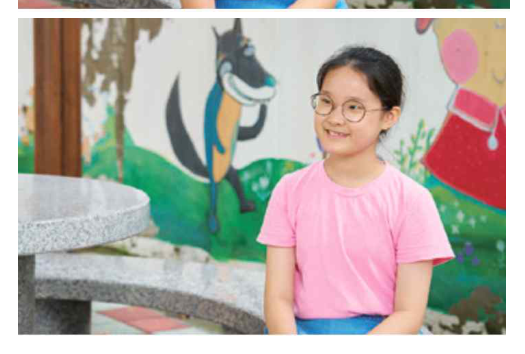
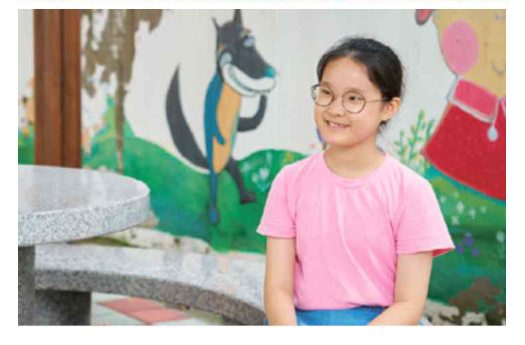
회독본 배포본 갱신

diff --git a/status.html b/status.html
@@ -68,7 +68,7 @@ body{margin:0;background:var(--bg);color:var(--label);}
   <section class="fs-mine" hidden><h2 class="fs-h">이 기기에서 보낸 제보<span class="fs-id" hidden></span></h2><div class="fs-grp"></div></section>
   <div class="fs-seg" hidden><button type="button" data-v="open">진행 중<span></span></button><button type="button" data-v="done">완료<span></span></button></div>
   <div class="fs-grp fs-list">
-    <details class="fs-row" data-k="미술|2026-10-11T16:15"><summary><div class="fs-w"><span class="fs-t">10월 11일 오후 4:15</span><span class="fs-s">미술</span></div><span class="fs-chip fs-review">검토 중</span><svg class="fs-cv" viewBox="0 0 8 14" fill="none" stroke="currentColor" stroke-width="2" stroke-linecap="round" stroke-linejoin="round"><path d="M1 1l6 6-6 6"/></svg></summary><div class="fs-x"><div><p class="fs-g">쪽지시험 &gt; 디자인과 매체 &gt; 사진과 애니메이션 · 사진이 잘려요</p></div></div></details>
+    <details class="fs-row" data-k="미술|2026-10-11T16:15"><summary><div class="fs-w"><span class="fs-t">10월 11일 오후 4:15</span><span class="fs-s">미술 · 10월 11일 반영</span></div><span class="fs-chip fs-fixed">반영</span><svg class="fs-cv" viewBox="0 0 8 14" fill="none" stroke="currentColor" stroke-width="2" stroke-linecap="round" stroke-linejoin="round"><path d="M1 1l6 6-6 6"/></svg></summary><div class="fs-x"><div><p class="fs-g">쪽지시험 &gt; 디자인과 매체 &gt; 사진과 애니메이션 · 사진이 잘려요</p><p class="fs-g fs-why">사진 위쪽에 섞여 있던 다른 사진 조각을 잘라 냄</p></div></div></details>
     <details class="fs-row" data-k="일반|2026-10-10T19:00"><summary><div class="fs-w"><span class="fs-t">10월 10일 오후 7:00</span><span class="fs-s">일반 · 15분 만에 반영</span></div><span class="fs-chip fs-fixed">반영</span><svg class="fs-cv" viewBox="0 0 8 14" fill="none" stroke="currentColor" stroke-width="2" stroke-linecap="round" stroke-linejoin="round"><path d="M1 1l6 6-6 6"/></svg></summary><div class="fs-x"><div><p class="fs-g">쪽지시험 · 틀린 문제 기록 기기 연동 요청</p><p class="fs-g fs-why">쪽지시험 기기 연동 추가</p></div><a class="fs-go" href="sync.html" aria-label="그 기능 보기" title="그 기능 보기"><svg viewBox="0 0 24 24" fill="none" stroke="currentColor" stroke-width="2" stroke-linecap="round" stroke-linejoin="round"><path d="M14 4h6v6M20 4l-9 9M18 14v4.5a1.5 1.5 0 0 1-1.5 1.5h-11A1.5 1.5 0 0 1 4 18.5v-11A1.5 1.5 0 0 1 5.5 6H10"/></svg></a></div></details>
     <details class="fs-row" data-k="체육|2026-10-10T17:25"><summary><div class="fs-w"><span class="fs-t">10월 10일 오후 5:25</span><span class="fs-s">체육 · 16분 만에 반영</span></div><span class="fs-chip fs-fixed">반영</span><svg class="fs-cv" viewBox="0 0 8 14" fill="none" stroke="currentColor" stroke-width="2" stroke-linecap="round" stroke-linejoin="round"><path d="M1 1l6 6-6 6"/></svg></summary><div class="fs-x"><div><p class="fs-g">학습과제 &gt; 학습과제의 전달 &gt; 설명 · 개별 대상 하위(이해력·수행 점검)가 한 줄로 접혀 보이던 것</p><p class="fs-g fs-why">개별 대상 아래 이해력 점검·수행 점검이 펼쳐 보이도록 고침</p></div><a class="fs-go" href="7.%EC%B2%B4%EC%9C%A1.html#%ED%95%99%EC%8A%B5%EA%B3%BC%EC%A0%9C%EC%9D%98_%EC%A0%84%EB%8B%AC" aria-label="노트에서 그 절 보기" title="노트에서 그 절 보기"><svg viewBox="0 0 24 24" fill="none" stroke="currentColor" stroke-width="2" stroke-linecap="round" stroke-linejoin="round"><path d="M14 4h6v6M20 4l-9 9M18 14v4.5a1.5 1.5 0 0 1-1.5 1.5h-11A1.5 1.5 0 0 1 4 18.5v-11A1.5 1.5 0 0 1 5.5 6H10"/></svg></a></div></details>
     <details class="fs-row" data-k="실과|2026-10-10T15:52"><summary><div class="fs-w"><span class="fs-t">10월 10일 오후 3:52</span><span class="fs-s">실과 · 7분 만에 반영</span></div><span class="fs-chip fs-fixed">반영</span><svg class="fs-cv" viewBox="0 0 8 14" fill="none" stroke="currentColor" stroke-width="2" stroke-linecap="round" stroke-linejoin="round"><path d="M1 1l6 6-6 6"/></svg></summary><div class="fs-x"><div><p class="fs-g">쪽지시험 &gt; 2022 개정 교육과정 &gt; 성취기준 · [6실04-01] 물음에 성취기준 원문이 빠져 있던 빈칸을 채움 — 답은 그대로 건축 구조물</p><p class="fs-g fs-why">성취기준 원문 인용 빈칸 채움</p></div></div></details>
